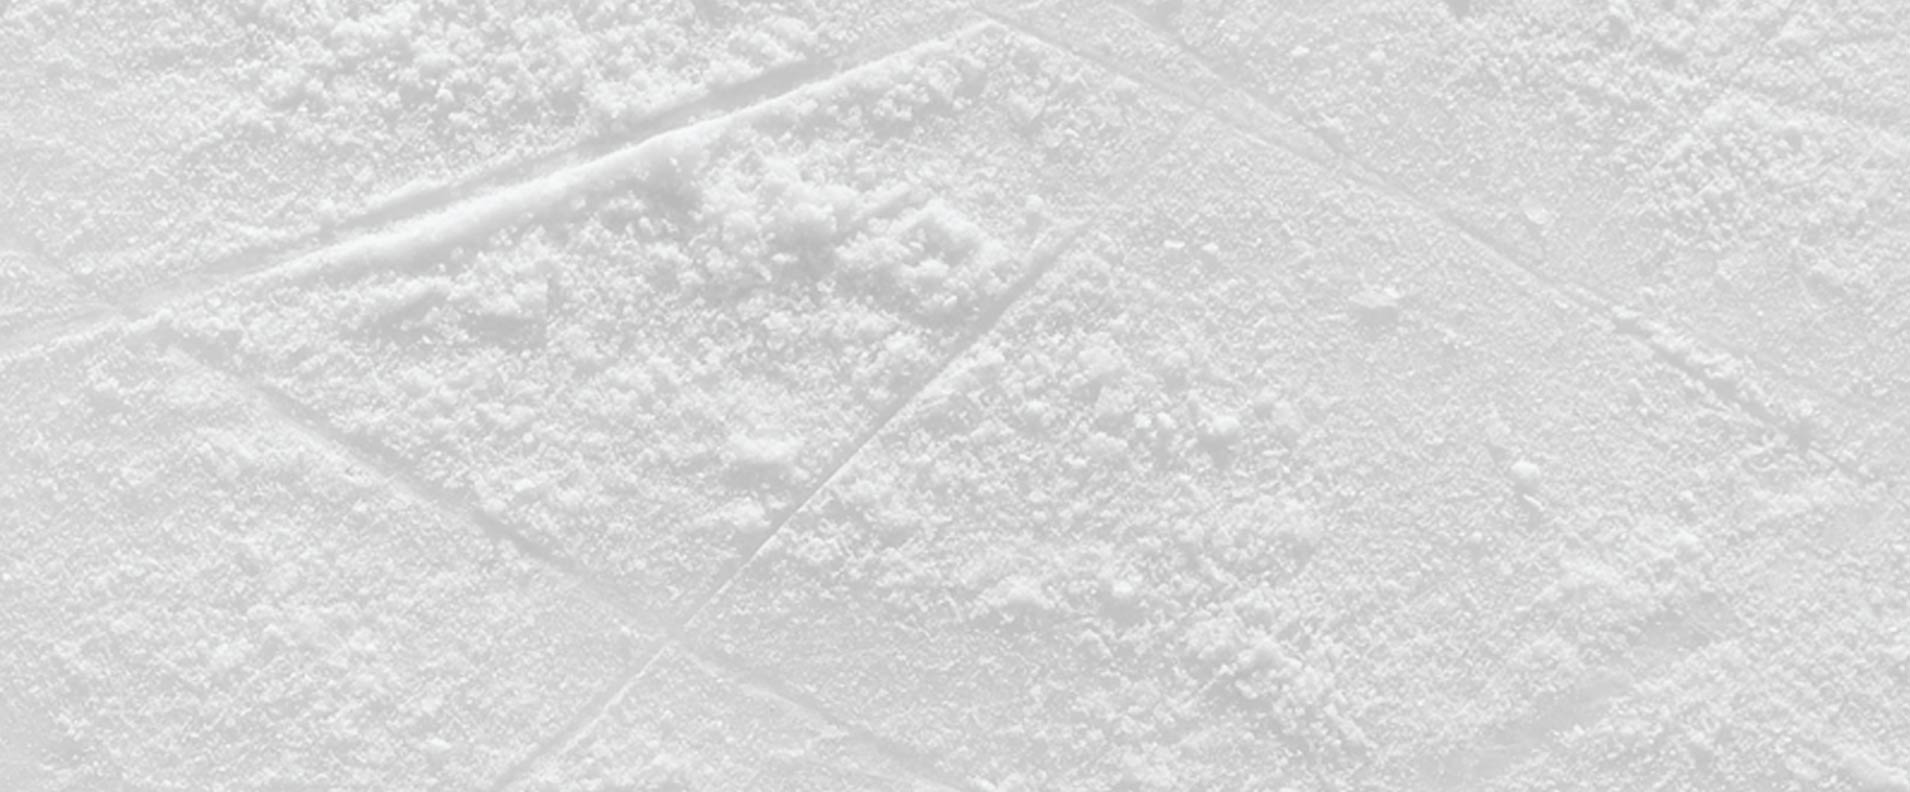
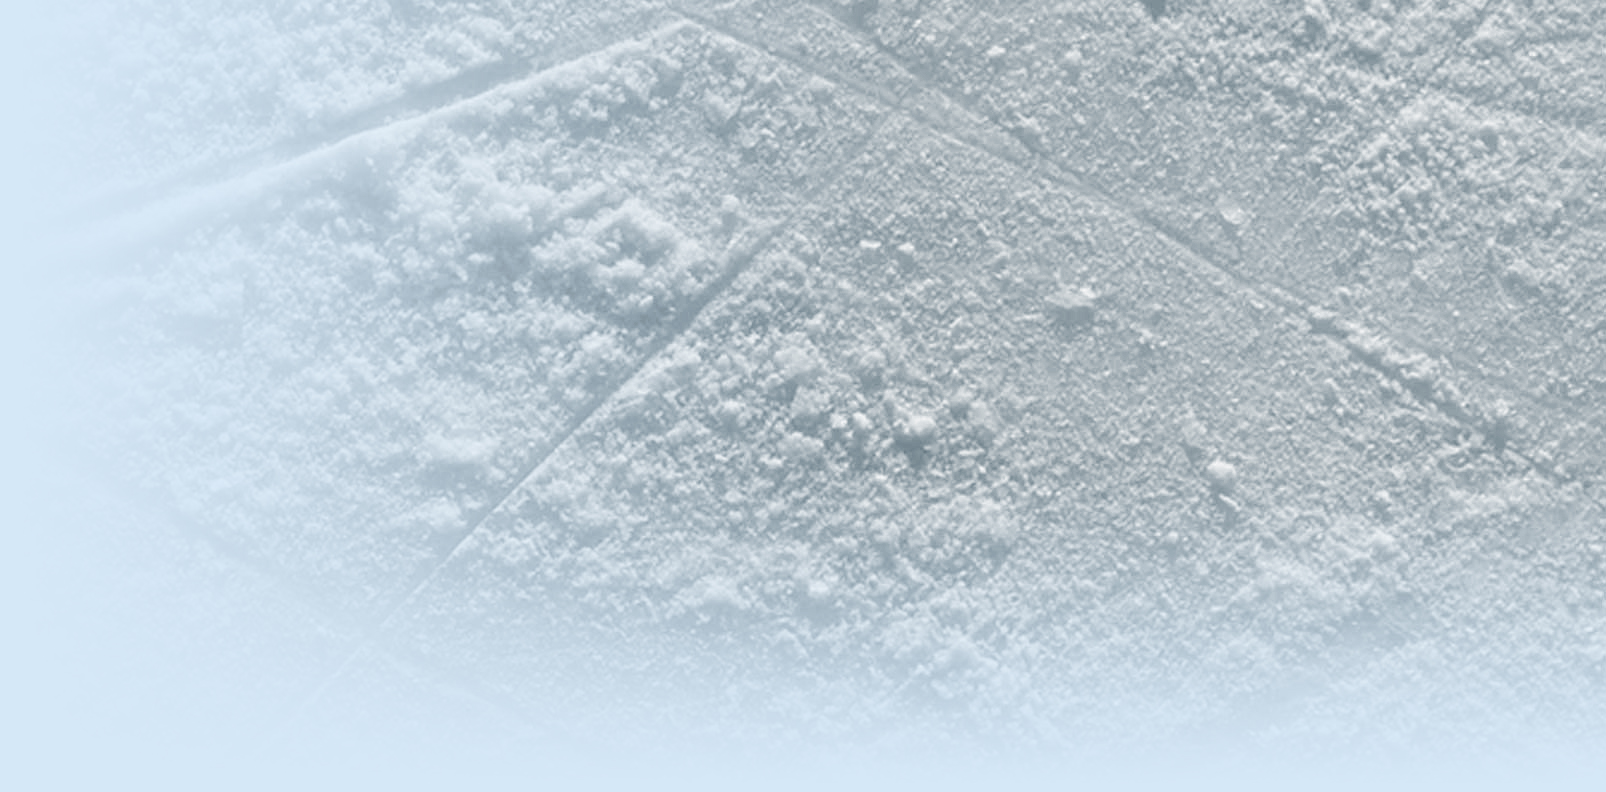
meader styles updated -sks

diff --git a/Front end/css/stylesheet.css b/Front end/css/stylesheet.css
@@ -1,8 +1,19 @@
+* {
+  margin: 0;
+  padding: 0;
+  box-sizing: border-box;
+  -webkit-box-sizing: border-box;
+  -moz-box-sizing: border-box;
+  -webkit-font-smoothing: antialiased;
+  -moz-font-smoothing: antialiased;
+  -o-font-smoothing: antialiased;
+  font-smoothing: antialiased;
+  text-rendering: optimizeLegibility;
+}
 html{
   background-color: green;
   background-image: url("ice_background2.jpg");
   background: no-repeat;
-  opacity: 0.8;
   font-family: sans-serif
 }
 
@@ -17,15 +28,15 @@ body {
   opacity: 0.7;
   text-align: right;
   position: relative;
-  
+  margin-left: 1em
 }
 
 header {
-  /*background-image: url("../images/ice-background-1.jpg");
-  background-repeat: no-repeat;*/
-  
+  background-image: url("../images/ice-background-1.jpg");
+  background-repeat: no-repeat;
+  background-position: bottom left;
+  padding-bottom: 1em;  
 }
-
 
 #logo {
   position: relative;
@@ -34,8 +45,6 @@ header {
   margin-left: 50px;
   margin-top: 30px;
 }
-
-
 
 ul {
     list-style-type: none;
